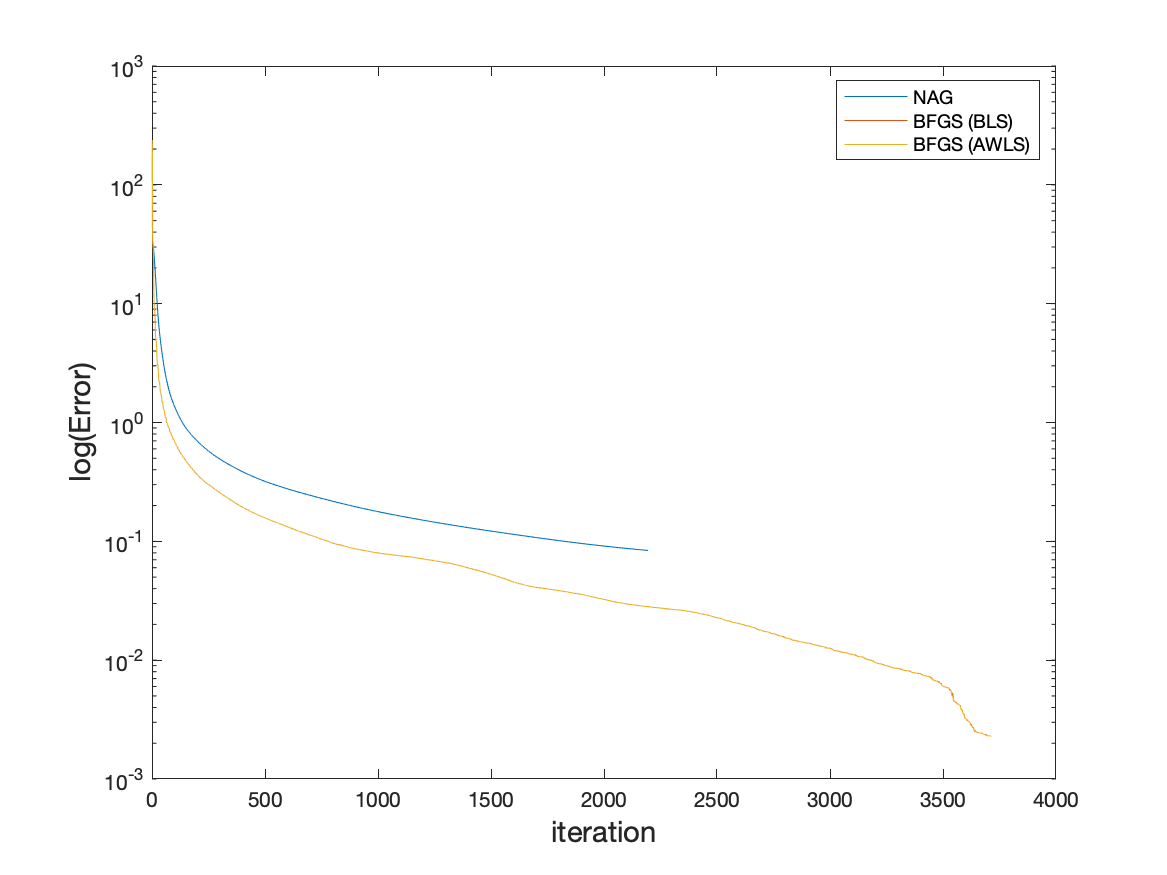
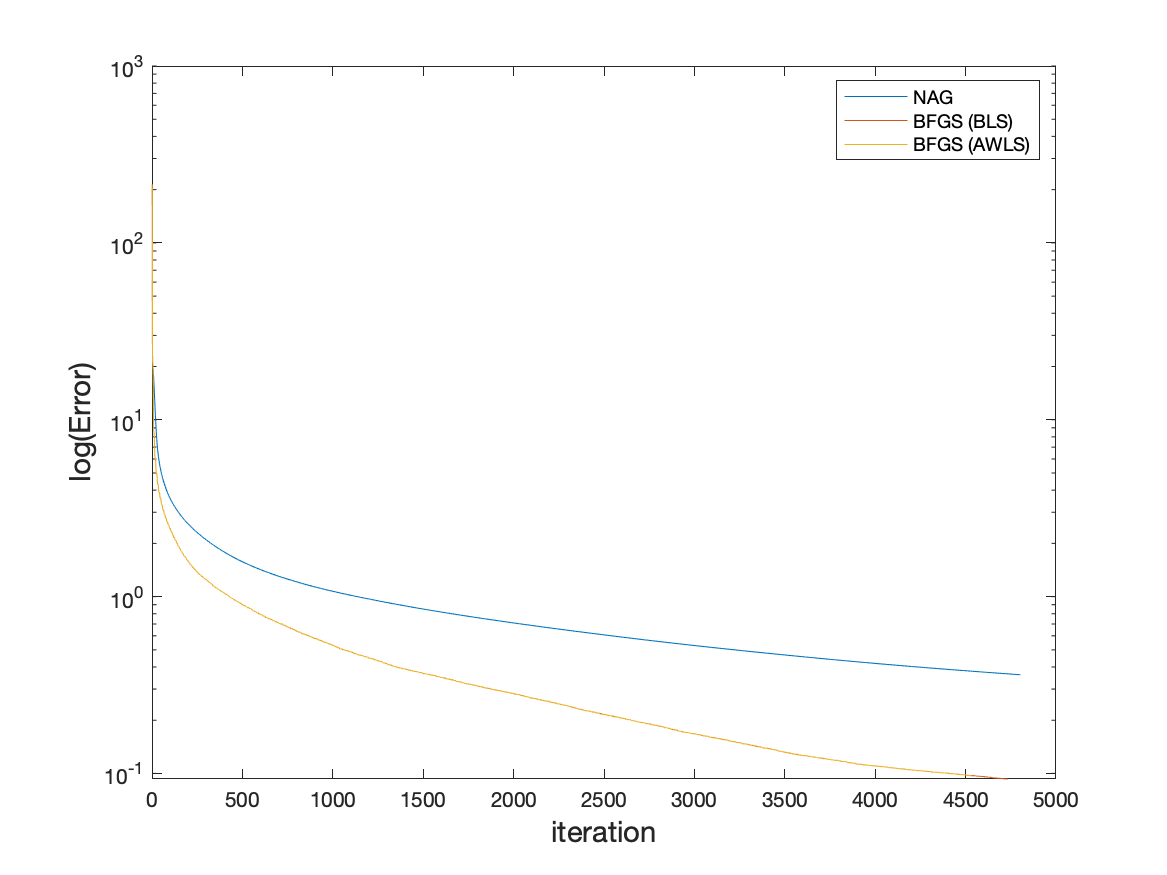
random matrix singular and timings test

diff --git a/Tests/random_timings.m b/Tests/random_timings.m
@@ -1,43 +1,40 @@
-rng(1);                 % seed to make random values repeatable
+rng(1);   
 
-X = zeros(100, 1);
-T = zeros(100, 1);
-c = 1;
-for i = 0:0.1:10
-    X(c) = i;
-    T(c) = sin(i); %+ (rand - 0.5)/3;
-    c = c + 1;
-end
+% --- parameter
+f = @tanh;              % hidden activation function
+n = 5;
+eps = 1e-3;
 
-f = @tanh;                    % hidden activation function
-eps = 1e-6;
+N = 250;
+h = N;                % number of hidden units
+% --- end of parameter
 
-n = size(X,2);          % input dimension
-m = size(T,2);          % output dimension
-N = size(X,1);          % number of samples
+X = randn(N, n);
+
+W = rand(h,n)*2-1;      % weight between input and hidden layer, range in [-1,1]
+b = rand(h,1)*2-1;      % bias of hidden nodes, range in [-1,1]
 X = X';                 % transpose to make it easier
-T = T';                 % transpose to make it easier
+
 lambda = 0;
+
 
 nag_times = (0);
 bfgs_awls_times = (0);
 bfgs_bls_times = (0);
 
 iter = 1;
-h_min = 101;
-h_max = 101;
+m_min = 1;
+m_max = 10;
 step = 1;
 
-for h = h_min:step:h_max
-    W = randn(h,n);         % weight between input and hidden layer
-    b = randn(h,1);         % bias of hidden nodes
-    beta = randn(h,m);      % randomly initialized beta
-    
+for m = m_min:step:m_max
+    T = randn(N, m);
+    T = T';
+    beta = rand(h,m)*2-1;   % randomly initialized beta, range in [-1,1]
     
     hessian = 0;
     for i = 1:N
         x = X(:,i);
-        t = T(:,i);
         hidden_out = f(W * x + b);
         hessian = hessian + (hidden_out * hidden_out');
     end
@@ -45,7 +42,7 @@ for h = h_min:step:h_max
     eta = 1/norm(hessian);
     
     % Try k times and then take avg
-    k = 100;
+    k = 1;
     
     % --- Time NAG
     ticStart = tic;
@@ -90,11 +87,11 @@ for h = h_min:step:h_max
     fprintf('final error = %d\n', errors_bfgs_awls(length(errors_bfgs_awls)))
     fprintf('time/iter = %d\n', (tEnd / k) / length(errors_bfgs_awls))
     
-    fprintf('%d/%d\n', step*(iter-1), h_max-h_min)
+    fprintf('%d/%d\n', step*(iter-1), m_max-m_min)
     
     iter = iter + 1;
 end
 
-plot(h_min:step:h_max, nag_times, h_min:step:h_max, bfgs_bls_times, h_min:step:h_max, bfgs_awls_times)
-legend('NAG', 'BFGS (BLS)', 'BFGS (AWLS)')
-saveas(gcf, 'Plots/sin_timings.png')
+plot(m_min:step:m_max, nag_times, m_min:step:m_max, bfgs_bls_times, m_min:step:m_max, bfgs_awls_times)
+legend('NAG', 'BFGS (BLS)', 'BFGS (AWLS)', 'Location', 'northwest')
+saveas(gcf, 'Plots/random_timings.png')

diff --git a/Tests/ill_random_matrix.m b/Tests/ill_random_matrix.m
@@ -2,7 +2,7 @@ rng(1);
 
 % --- parameter
 f = @tanh;              % hidden activation function
-n = 10;
+n = 5;
 eps = 1e-3;
 
 N = 250;
@@ -19,27 +19,30 @@ X = X';                 % transpose to make it easier
 T = T';                 % transpose to make it easier
 beta = rand(h,m)*2-1;   % randomly initialized beta, range in [-1,1]
 
-original_beta = beta;
+original_W = W;
 
-[U, S, V] = svd(beta);
+[U, S, V] = svd(W);
 
-beta_well_conditioned = U * S * V';
+W_well_conditioned = U * S * V';
 
-S(1:6, :)
-S(5,5)
-S(5, 5) = 0; % Make the weights close to singular
+%S(1, 1) = 0;
+%S(2, 2) = 0;
+%S(3, 3) = 0;
+S(4, 4) = 0;
+S(5, 5) = 0;
+b(5) = 0;
+%b(1) = 0;
+%b(2) = 0;
+%b(3) = 0;
+b(4) = 0;
 
-beta_ill_conditioned = U * S * V';
+W_ill_conditioned = U * S * V';
 
-beta = beta_ill_conditioned;
+W = W_ill_conditioned;
 
+%rank(W_well_conditioned)
 
-%norm(beta_well_conditioned - beta)
-%norm(beta_ill_conditioned - beta)
-
-%rank(beta_well_conditioned)
-
-%rank(beta_ill_conditioned)
+%rank(W_ill_conditioned)
 
 %norm(beta_well_conditioned - beta)
 
@@ -84,4 +87,4 @@ semilogy(1:(length(errors_nag)), errors_nag, 1:(length(errors_bfgs_awls)), error
 xlabel('iteration', 'FontSize', 14)
 ylabel('log(Error)', 'FontSize', 14)
 legend('NAG', 'BFGS (BLS)', 'BFGS (AWLS)')
-saveas(gcf, 'Plots/random_convergence_rate_t1.png')
+saveas(gcf, 'Plots/random_ill_convergence_rate_t1.png')

diff --git a/Tests/test_sin_lambda.m b/Tests/test_sin_lambda.m
@@ -164,7 +164,7 @@ function plot_sin(X, T_Noise, T_Real, beta_opt, beta_nag, beta_bfgs_bls, beta_bf
         plot(X, Y)
     end
     
-    legend(legends, 'Location', 'southwest')
+    legend(legends, 'Location', 'northwest')
     
     if isempty(saveto) == false
        saveas(gcf, saveto) 
